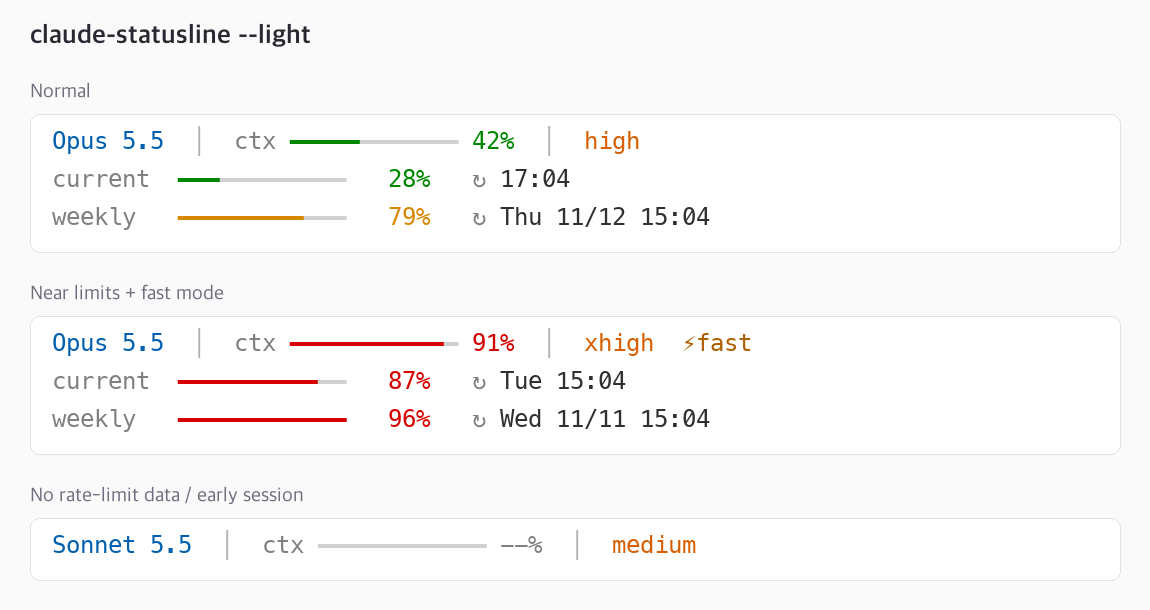
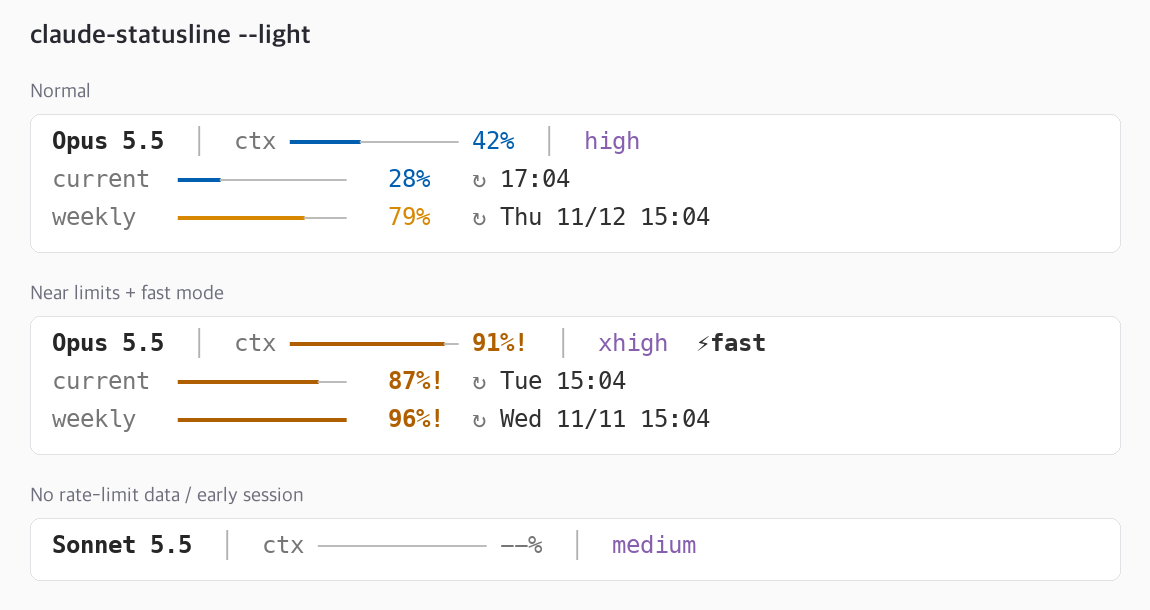
Color-blind friendly palette and non-color severity cues
- Gauges: blue (<50%) -> orange (<80%) -> vermillion (>=80%), Okabe-Ito based
- >=80% also shows a bold percentage with a '!' marker
- Thin '─' track vs thick '━' fill so fill level reads without color
- Neutral colors for model name and effort
- README: new color-blind section with protanopia/deuteranopia simulation

diff --git a/statusline.c b/statusline.c
@@ -1,9 +1,9 @@
 /*
  * Claude Code statusline — fast, dependency-free C.
  *
- *   Opus 5.5  │  ctx ━━━━━━━━━━━━ 42%  │  high  ⚡fast
- *   current   ━━━━━━━━━━━━   28%   ↻ 19:00
- *   weekly    ━━━━━━━━━━━━   79%   ↻ Thu 11/12 10:00
+ *   Opus 5.5  │  ctx ━━━━━─────── 42%  │  high  ⚡fast
+ *   current  ━━━─────────   28%   ↻ 19:00
+ *   weekly   ━━━━━━━━━━──   86%!  ↻ Thu 11/12 10:00
  *
  * Reads the statusLine JSON payload on stdin and prints up to three lines.
  * Usage: statusline [--light]   (--light = palette for light terminal backgrounds)
@@ -19,16 +19,26 @@
 #define RST    "\033[0m"
 
 typedef struct {
-    const char *model, *dim, *sep, *empty, *text, *eff, *fast, *ok, *warn, *crit;
+    const char *model, *dim, *sep, *empty, *text, *eff, *fast, *ok, *warn, *crit, *crit_bar;
 } Palette;
 
+/*
+ * Color-blind-safe gauge colors (based on the Okabe-Ito palette):
+ *   < 50% blue  ·  < 80% orange  ·  >= 80% vermillion + bold + "!"
+ * Severity never relies on hue alone: high usage also gets bold text and a
+ * "!" marker, and the bar's filled part (━) differs in shape from its track (─).
+ * Model and effort use neutral colors so they never look like a gauge state.
+ */
+#define BOLD(n) "\033[1;38;5;" #n "m"
 static const Palette DARK = {
-    ESC(117), ESC(243), ESC(240), ESC(238), ESC(252),
-    ESC(215), ESC(221), ESC(114), ESC(221), ESC(203),
+    .model = BOLD(255), .dim = ESC(245), .sep = ESC(240), .empty = ESC(240), .text = ESC(252),
+    .eff = ESC(183), .fast = BOLD(229),
+    .ok = ESC(75), .warn = ESC(214), .crit = BOLD(202), .crit_bar = ESC(202),
 };
 static const Palette LIGHT = {
-    ESC(25),  ESC(244), ESC(249), ESC(252), ESC(236),
-    ESC(166), ESC(130), ESC(28),  ESC(172), ESC(160),
+    .model = BOLD(235), .dim = ESC(243), .sep = ESC(249), .empty = ESC(250), .text = ESC(236),
+    .eff = ESC(97), .fast = BOLD(236),
+    .ok = ESC(25), .warn = ESC(172), .crit = BOLD(130), .crit_bar = ESC(130),
 };
 static const Palette *P = &DARK;
 
@@ -146,15 +156,21 @@ static const char *pct_color(double p) {
 
 static double clamp(double p) { return p < 0 ? 0 : (p > 100 ? 100 : p); }
 
+/* percentage with a non-color severity cue: "!" at >= 80%, padded otherwise */
+static void put_pct(double p, int width, int pad) {
+    printf("%s%*d%%%s" RST, pct_color(p), width, (int)(clamp(p) + 0.5),
+           p >= 80 ? "!" : (pad ? " " : ""));
+}
+
 static void put_bar(double p, int known) {
     int filled = known ? (int)(clamp(p) / 100.0 * BAR_CELLS + 0.5) : 0;
     if (known && p > 0 && filled == 0) filled = 1; /* show any non-zero usage */
     if (filled) {
-        fputs(pct_color(p), stdout);
+        fputs(p >= 80 ? P->crit_bar : pct_color(p), stdout); /* bar never bold */
         for (int i = 0; i < filled; i++) fputs("━", stdout);
     }
     fputs(P->empty, stdout);
-    for (int i = filled; i < BAR_CELLS; i++) fputs("━", stdout);
+    for (int i = filled; i < BAR_CELLS; i++) fputs("─", stdout);
     fputs(RST, stdout);
 }
 
@@ -168,7 +184,8 @@ static void put_limit(const char *json, const char *label, const char *win, int 
 
     printf("\n%s%-8s" RST " ", P->dim, label);
     put_bar(pct, 1);
-    printf("%s  %3d%%" RST, pct_color(pct), (int)(clamp(pct) + 0.5));
+    fputs("  ", stdout);
+    put_pct(pct, 3, 1);
 
     if (has_reset) {
         time_t t = (time_t)reset, now = time(NULL);
@@ -180,7 +197,7 @@ static void put_limit(const char *json, const char *label, const char *win, int 
                         : (rt.tm_yday == nt.tm_yday && rt.tm_year == nt.tm_year) ? "%H:%M"
                         : "%a %H:%M";
         strftime(buf, sizeof buf, fmt, &rt);
-        printf("%s   ↻ %s%s" RST, P->dim, P->text, buf);
+        printf("%s  ↻ %s%s" RST, P->dim, P->text, buf);
     }
 }
 
@@ -212,7 +229,7 @@ int main(int argc, char **argv) {
     double ctx = 0;
     int has_ctx = get_num(json, "context_window.used_percentage", &ctx);
     put_bar(ctx, has_ctx);
-    if (has_ctx) printf("%s %d%%" RST, pct_color(ctx), (int)(clamp(ctx) + 0.5));
+    if (has_ctx) { putchar(' '); put_pct(ctx, 1, 0); }
     else         printf("%s --%%" RST, P->dim);
 
     int has_eff = get_str(json, "effort.level", effort, sizeof effort);

diff --git a/README.md b/README.md
@@ -3,12 +3,13 @@
 **English** | [한국어](README_한국어.md)
 
 A fast, minimal status line for [Claude Code](https://code.claude.com), written in plain C.
-One ~35 KB binary with no dependencies (no `jq`, Node, or Python), and it renders in about 1–2 ms.
+One ~50 KB binary with no dependencies (no `jq`, Node, or Python), and it renders in about 1–2 ms.
+The colors are color-blind friendly, and severity is never shown by color alone.
 
 ```
-Opus 5.5  │  ctx ━━━━━━━━━━━━ 42%  │  high  ⚡fast
-current  ━━━━━━━━━━━━   28%   ↻ 17:04
-weekly   ━━━━━━━━━━━━   79%   ↻ Thu 11/12 15:04
+Opus 5.5  │  ctx ━━━━━─────── 42%  │  high  ⚡fast
+current  ━━━━━━━━─────   65%   ↻ 17:04
+weekly   ━━━━━━━━━━━─   88%!  ↻ Thu 11/12 15:04
 ```
 
 | Dark terminal | Light terminal (`--light`) |
@@ -23,7 +24,7 @@ weekly   ━━━━━━━━━━━━   79%   ↻ Thu 11/12 15:04
 | 2 | **current**: 5-hour rate-limit usage and reset time |
 | 3 | **weekly**: 7-day rate-limit usage and reset date and time |
 
-- Bars are colored by usage: green below 50%, yellow below 80%, red at 80% and above.
+- Bars are colored by usage: blue below 50%, orange below 80%, and dark vermillion with a bold `!` marker at 80% and above. See [Color-blind friendly](#color-blind-friendly).
 - The two rate-limit lines share the same layout. They appear only when Claude Code sends rate-limit data (claude.ai Pro/Max subscribers, after the first response of a session). Otherwise only line 1 is shown.
 - A reset later today shows just the time. A later day adds the weekday.
 - The permission mode (auto, plan, …) is not part of the status line data, and Claude Code already shows it in the footer right below.
@@ -95,6 +96,24 @@ Before building this, we surveyed popular and recently updated status line proje
 Also see [ccusage](https://github.com/ccusage/ccusage) (★19.4k), a usage and cost analysis tool that also offers a status line mode.
 
 **Why another one?** We wanted the readability of the dot-gauge design, with a cleaner single style for every bar, native speed, and zero dependencies, all in a file small enough to read in one sitting.
+
+## Color-blind friendly
+
+The default palettes are designed for red-green color blindness (protanopia and deuteranopia), and severity never relies on color alone.
+
+| Usage | Color | Extra cue (no color needed) |
+|---|---|---|
+| below 50% | blue | — |
+| 50–79% | orange | — |
+| 80% and above | dark vermillion | **bold** number and a `!` marker (`88%!`) |
+
+- The filled part of a bar is a thick line (`━`) and the empty track is a thin line (`─`), so you can read how full it is even with low color contrast.
+- The model name and effort use neutral colors so they are never mistaken for a gauge state.
+- Every gauge also prints its exact percentage.
+
+The image below shows the output in both palettes next to simulated protanopia and deuteranopia (Machado et al. 2009 model). Blue and orange stay clearly distinct. Orange and vermillion are told apart by brightness, bold text, and the `!` marker.
+
+![color-blind simulation](docs/colorblind-check.png)
 
 ## License
 
